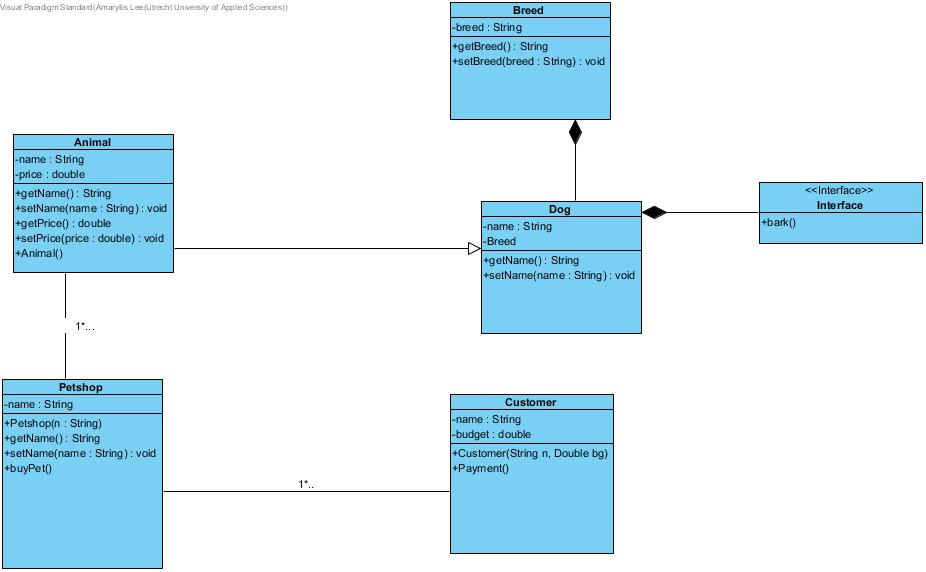
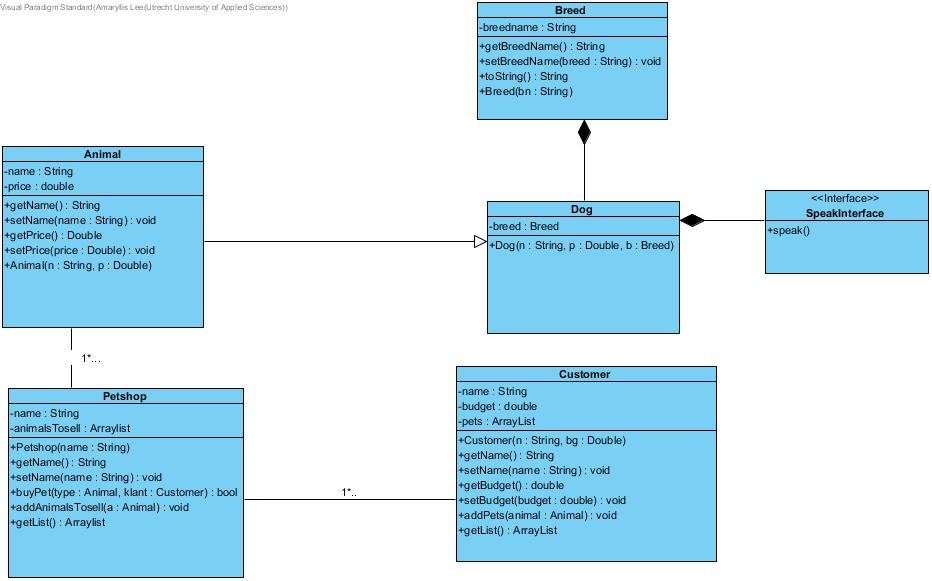
Veranderingen aan summatieve opdracht 1

Changed region(s): [[0.0, 0.0, 0.9978, 0.5944], [0.0, 0.6241, 0.7862, 1.0], [0.0907, 0.0, 0.3024, 0.0297]]

diff --git a/src/sumatieve_opdracht_1/Main.java b/src/sumatieve_opdracht_1/Main.java
@@ -1,0 +1,36 @@
+package sumatieve_opdracht_1;
+
+public class Main {
+    public static void main(String[] arg) {
+        Petshop petsmart = new Petshop("Petsmart");
+        Breed chihuahabreed = new Breed("Chihuaha");
+        Breed frenchbulldogbreed = new Breed("French Bulldog");
+
+        Dog chihuaha = new Dog("Tequila", 20.50,chihuahabreed);
+        Dog frenchbulldog = new Dog ("Frietjes",50.75,frenchbulldogbreed);
+
+        petsmart.addAnimalsTosell(chihuaha);
+        petsmart.addAnimalsTosell(frenchbulldog);
+
+
+
+        Customer persoon = new Customer("Jeroen", 30.50);
+
+        System.out.println(String.format("%s has %s pets",petsmart.getName(), petsmart.getList().size()));
+        System.out.println(String.format("%s has %s pets",persoon.getName(), persoon.getList().size()));
+
+        if (petsmart.buyPet(frenchbulldog, persoon))
+            {System.out.println(String.format("%s bought  a %s named %s", persoon.getName(),frenchbulldog.getBreed(), frenchbulldog.getName()));}
+        else {System.out.println(String.format("%s is to broke to buy a %s named  %s", persoon.getName(),frenchbulldog.getBreed(), frenchbulldog.getName()));}
+
+        if (petsmart.buyPet(chihuaha, persoon))
+        {System.out.println(String.format("%s bought  a %s named %s . %s  %s", persoon.getName(),chihuaha.getBreed(), chihuaha.getName(), chihuaha.getName(), chihuaha.speak()));}
+        else {System.out.println(String.format("%s is to broke to buy a %s named  %s", persoon.getName(),chihuaha.getBreed(), chihuaha.getName()));}
+
+        System.out.println(String.format("%s has %s pets",petsmart.getName(), petsmart.getList().size()));
+        System.out.println(String.format("%s has %s pets",persoon.getName(), persoon.getList().size()));
+
+
+    }
+
+}

diff --git a/src/sumatieve_opdracht_1/Petshop.java b/src/sumatieve_opdracht_1/Petshop.java
@@ -1,15 +1,50 @@
 package sumatieve_opdracht_1;
 
+import java.util.ArrayList;
+
 public class Petshop {
     private String name;
 
-    public Petshop(String n){
-        n = name;
+    private ArrayList<Animal> animalsTosell = new ArrayList<Animal>();
+
+    public Petshop(String n) {
+        name = n;
     }
 
-    public String getName(){return name;}
-    public void setName(String n){name = n;}
 
-    //function buyPet()
+    public String getName() {
+        return name;
+    }
+
+    public void setName(String n) {
+        name = n;
+    }
+
+
+    public Boolean buyPet(Animal type, Customer klant) {
+        int foundIndex = -1;
+        for (int index = 0; index < animalsTosell.size(); index++) {
+            if (animalsTosell.get(index) == type) {
+                foundIndex = index;
+//               animalsTosell.remove(index);
+                break;
+            }
+        }
+        if (foundIndex >= 0 && klant.getBudget() > type.getPrice()) {
+            animalsTosell.remove(foundIndex);
+            klant.addPets(type);
+            return true;
+        }
+        return false;
+    }
+
+
+    public void addAnimalsTosell(Animal a) {
+        animalsTosell.add(a);
+    }
+
+    public ArrayList<Animal> getList() {
+        return animalsTosell;
+    }
 
 }

diff --git a/src/sumatieve_opdracht_1/Customer.java b/src/sumatieve_opdracht_1/Customer.java
@@ -1,13 +1,25 @@
 package sumatieve_opdracht_1;
 
+import java.util.ArrayList;
 public class Customer {
     private String name;
     private double budget;
+
+    private ArrayList<Animal> pets= new ArrayList<Animal>();
 
     public Customer(String n, Double bg){
         name = n;
         budget=bg;
     }
 
-    //payment
+    public String getName(){return name;}
+    public void setName(String n){name = n;}
+
+    public Double getBudget(){return budget;}
+    public void setBudget(Double bg){budget = bg;}
+
+    public void addPets(Animal animal){pets.add(animal);}
+
+    public ArrayList<Animal> getList(){return pets;}
+
 }

diff --git a/src/sumatieve_opdracht_1/Dog.java b/src/sumatieve_opdracht_1/Dog.java
@@ -1,9 +1,24 @@
 package sumatieve_opdracht_1;
+ import java.util.ArrayList;
+public class Dog extends Animal implements  SpeakInterface{
 
-public class Dog {
-    private String name;
     private Breed breed;
 
-    public String getName(){return name;}
-    public void setName(String n){name = n;}
+
+    public Dog(String n,Double p, Breed b){
+       super(n, p);
+       breed = b;
+
+//       ps.addAnimals(this);
+//       dogTosell.add(n);
+
+    }
+
+    public Breed  getBreed(){return breed;}
+    public void setBreed(Breed breed){}
+
+    public String speak(){
+        return ("WOOF WOOF");
+    }
+
 }

diff --git a/src/sumatieve_opdracht_1/Breed.java b/src/sumatieve_opdracht_1/Breed.java
@@ -1,8 +1,15 @@
 package sumatieve_opdracht_1;
 
 public class Breed {
-    private String breed;
+    private String breedname;
 
-    public String getBreed(){return breed;}
-    public void setBreed(String b){breed = b;}
+    public Breed(String bn){
+        breedname = bn;
+    }
+    public String getBreedname(){return breedname;}
+    public void setBreedname(String b){breedname = b;}
+
+    public String toString(){
+        return breedname;
+    }
 }

diff --git a/src/sumatieve_opdracht_1/SpeakInterface.java b/src/sumatieve_opdracht_1/SpeakInterface.java
@@ -1,0 +1,5 @@
+package sumatieve_opdracht_1;
+
+public interface SpeakInterface {
+    public String speak();
+}
